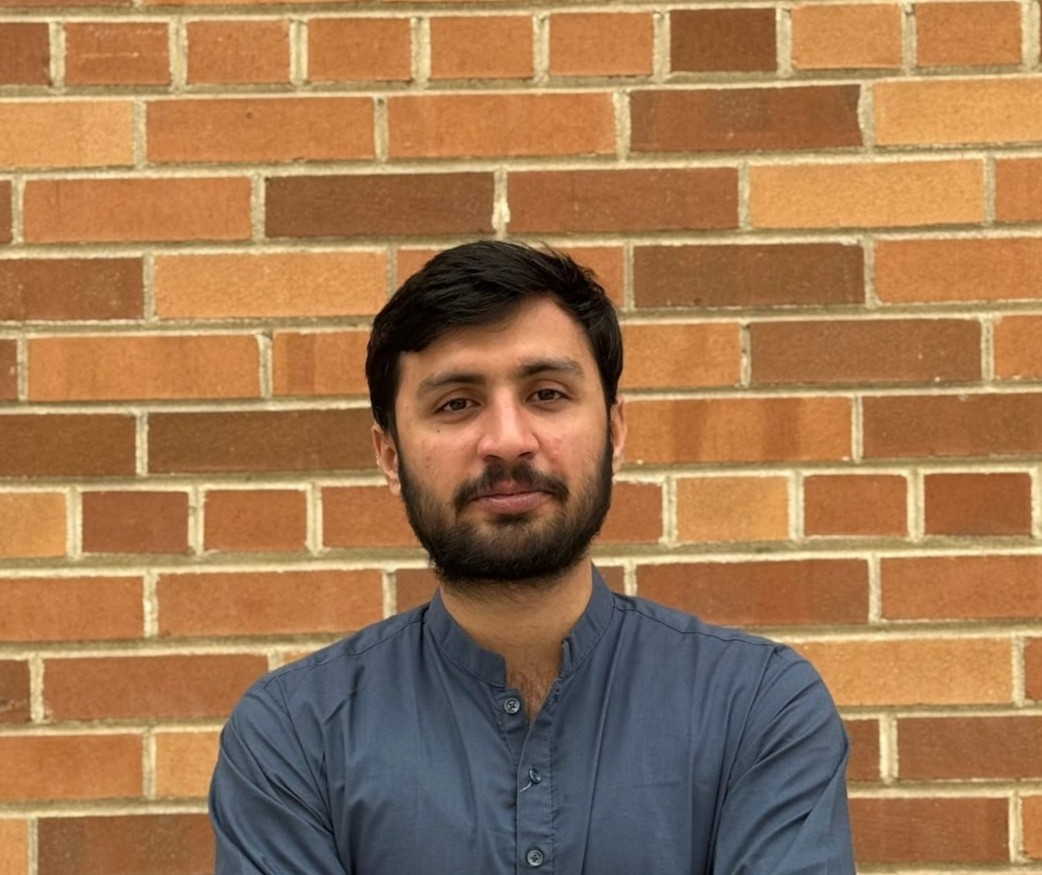
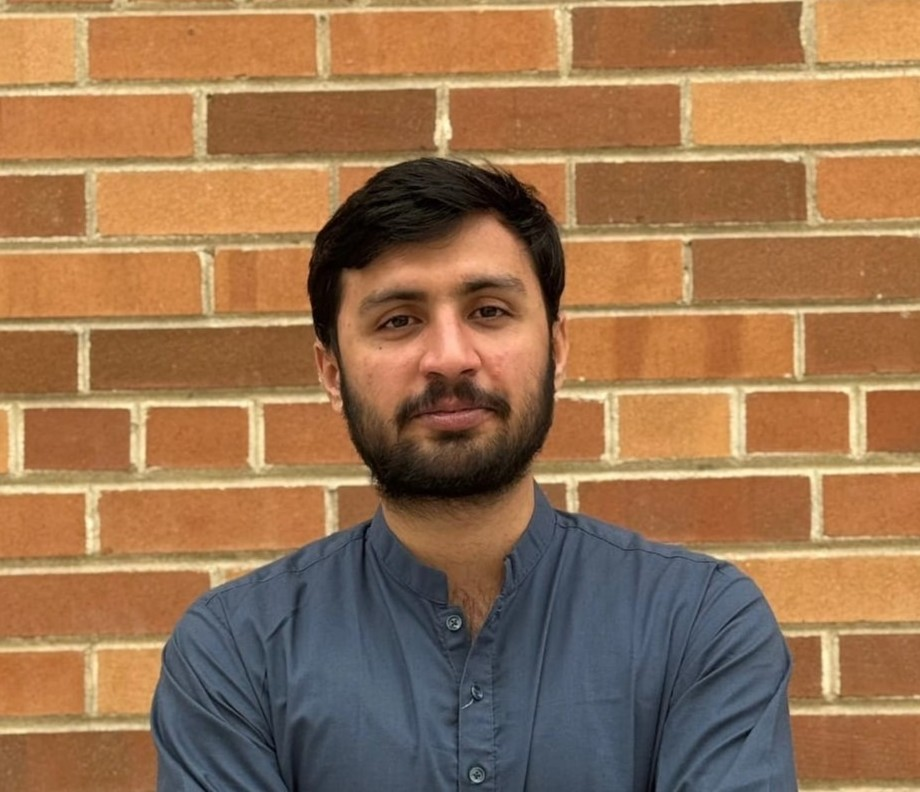
Changing UI

diff --git a/styles.css b/styles.css
@@ -305,13 +305,16 @@ h4 { font-size: 1rem; }
 
 .hero-layout {
   position: relative;
-  max-width: 820px;
+  display: grid;
+  grid-template-columns: minmax(0, 1fr) minmax(330px, 430px);
+  gap: 3.5rem;
+  align-items: center;
 }
 
 .hero-identity {
   display: flex;
   align-items: center;
-  gap: 1.35rem;
+  gap: 1.1rem;
   margin-bottom: .25rem;
 }
 
@@ -325,17 +328,106 @@ h4 { font-size: 1rem; }
 
 .hero-avatar {
   display: block;
-  width: 132px;
-  height: 132px;
+  width: 84px;
+  height: 84px;
   border-radius: 50%;
   object-fit: cover;
   object-position: center 12%;
-  border: 4px solid var(--bg);
+  border: 3px solid var(--bg);
   background: var(--surface-soft);
 }
 
-.hero-identity-text { min-width: 0; }
-.hero-identity-text .eyebrow { margin-bottom: .5rem; }
+.hero-identity-text { flex: 1; min-width: 0; }
+.hero-identity-text .eyebrow { margin-bottom: .5rem; overflow-wrap: anywhere; }
+
+/* role line */
+.hero-role {
+  margin-top: .85rem;
+  font-family: "JetBrains Mono", monospace;
+  font-size: clamp(.95rem, 1.6vw, 1.15rem);
+  font-weight: 600;
+  letter-spacing: -.01em;
+  color: var(--text-2);
+}
+.hero-role .accent {
+  background: var(--grad);
+  -webkit-background-clip: text;
+  -webkit-text-fill-color: transparent;
+  background-clip: text;
+}
+.hero-role::before {
+  content: "> ";
+  color: var(--primary);
+}
+
+/* ── Hero code panel ── */
+.hero-code {
+  position: relative;
+  border: 1px solid var(--line-strong);
+  border-radius: 16px;
+  background:
+    linear-gradient(180deg, color-mix(in srgb, var(--surface-2) 92%, var(--primary)) 0%, var(--surface) 100%);
+  box-shadow: var(--shadow-lg), 0 0 60px color-mix(in srgb, var(--primary) 14%, transparent);
+  overflow: hidden;
+  font-family: "JetBrains Mono", monospace;
+}
+
+.hero-code-bar {
+  display: flex;
+  align-items: center;
+  gap: .55rem;
+  padding: .7rem .95rem;
+  border-bottom: 1px solid var(--line);
+  background: color-mix(in srgb, var(--bg) 45%, transparent);
+}
+.hero-code-bar .dot {
+  width: 11px; height: 11px; border-radius: 50%;
+  background: var(--muted); opacity: .55;
+}
+.hero-code-bar .dot:nth-child(1) { background: #ff5f57; opacity: .9; }
+.hero-code-bar .dot:nth-child(2) { background: #febc2e; opacity: .9; }
+.hero-code-bar .dot:nth-child(3) { background: #28c840; opacity: .9; }
+.hero-code-bar .file {
+  margin-left: .4rem;
+  font-size: .74rem;
+  color: var(--muted);
+}
+
+.hero-code pre {
+  margin: 0;
+  padding: 1.15rem 1.25rem 1.35rem;
+  font-size: .8rem;
+  line-height: 1.85;
+  overflow-x: auto;
+  counter-reset: ln;
+}
+.hero-code .ln { display: block; white-space: pre; }
+.hero-code .ln::before {
+  counter-increment: ln;
+  content: counter(ln);
+  display: inline-block;
+  width: 1.4rem;
+  margin-right: 1rem;
+  text-align: right;
+  color: var(--muted);
+  opacity: .45;
+  -webkit-user-select: none;
+  user-select: none;
+}
+
+.tok-kw   { color: #c792ea; }
+.tok-key  { color: #82aaff; }
+.tok-str  { color: #c3e88d; }
+.tok-num  { color: #f78c6c; }
+.tok-fn   { color: #ffcb6b; }
+.tok-com  { color: var(--muted); opacity: .7; }
+.tok-pn   { color: var(--text-2); }
+
+[data-theme="light"] .tok-kw  { color: #9333ea; }
+[data-theme="light"] .tok-key { color: #2563eb; }
+[data-theme="light"] .tok-str { color: #15803d; }
+[data-theme="light"] .tok-num { color: #c2410c; }
+[data-theme="light"] .tok-fn  { color: #b45309; }
 
 .hero-content h1 {
   margin-bottom: 0;
@@ -757,14 +849,103 @@ h4 { font-size: 1rem; }
 }
 
 .project-list {
-  display: flex;
-  flex-direction: column;
-  gap: .6rem;
+  display: grid;
+  grid-template-columns: repeat(2, 1fr);
+  gap: 1rem;
 }
 
+.project-card {
+  position: relative;
+  display: flex;
+  flex-direction: column;
+  gap: .7rem;
+  background: var(--surface);
+  border: 1px solid var(--line);
+  border-radius: var(--radius);
+  padding: 1.4rem 1.5rem 1.5rem;
+  box-shadow: var(--shadow-sm);
+  overflow: hidden;
+  transition: box-shadow var(--t), transform var(--t), border-color var(--t);
+}
+.project-card::before {
+  content: "";
+  position: absolute;
+  inset: 0 0 auto 0;
+  height: 3px;
+  background: var(--cat-color, var(--primary));
+  opacity: 0;
+  transition: opacity var(--t);
+}
+.project-card:hover {
+  box-shadow: var(--shadow), 0 0 50px color-mix(in srgb, var(--cat-color, var(--primary)) 12%, transparent);
+  transform: translateY(-4px);
+  border-color: color-mix(in srgb, var(--cat-color, var(--primary)) 35%, var(--line-strong));
+}
+.project-card:hover::before { opacity: 1; }
+
+.project-card-top {
+  display: flex;
+  align-items: center;
+  gap: .55rem;
+}
+.project-card-top .project-index {
+  color: var(--cat-color, var(--primary));
+}
+.project-card-top .meta-pill.cat { margin-right: auto; }
+
+.project-card-title {
+  font-size: 1.02rem;
+  font-weight: 700;
+  line-height: 1.35;
+  color: var(--text);
+}
+
+.project-card-desc {
+  color: var(--text-2);
+  font-size: .88rem;
+  line-height: 1.6;
+  margin: 0;
+  display: -webkit-box;
+  -webkit-line-clamp: 4;
+  -webkit-box-orient: vertical;
+  overflow: hidden;
+}
+
+.project-card .tags { margin-top: auto; }
+
+.tag-more {
+  font-size: .72rem;
+  font-weight: 600;
+  padding: .25rem .55rem;
+  border-radius: 7px;
+  color: var(--muted);
+  font-family: "JetBrains Mono", monospace;
+}
+
+.project-card-links {
+  display: flex;
+  flex-wrap: wrap;
+  gap: 1rem;
+  margin-top: .35rem;
+  padding-top: .9rem;
+  border-top: 1px solid var(--line);
+}
+.project-card-links a {
+  display: inline-flex;
+  align-items: center;
+  gap: .35rem;
+  font-weight: 700;
+  font-size: .8rem;
+  color: var(--primary);
+  transition: gap var(--t), color var(--t);
+}
+.project-card-links a:hover { gap: .55rem; color: var(--accent); }
+.project-card-links svg { flex-shrink: 0; }
+
 .show-more-projects {
+  grid-column: 1 / -1;
   width: 100%;
-  margin-top: 1.1rem;
+  margin-top: .4rem;
   padding: 1.1rem 0;
   display: flex;
   align-items: center;
@@ -1051,14 +1232,13 @@ h4 { font-size: 1rem; }
   .skills-grid { grid-template-columns: repeat(2, 1fr); }
 }
 
-@media (max-width: 860px) {
-  .hero-identity {
-    flex-direction: column;
-    text-align: center;
-    gap: 1rem;
-  }
+@media (max-width: 880px) {
+  .hero-layout { grid-template-columns: minmax(0, 1fr); gap: 2.25rem; }
+  .hero-code { order: 2; max-width: 520px; min-width: 0; }
+}
 
-  .hero-avatar { width: 128px; height: 128px; }
+@media (max-width: 860px) {
+  .hero-avatar { width: 76px; height: 76px; }
 
   .contact-card {
     grid-template-columns: 1fr;
@@ -1094,8 +1274,12 @@ h4 { font-size: 1rem; }
 
 @media (max-width: 640px) {
   .container { width: calc(100% - 32px); }
+  .hero-identity { flex-direction: column; align-items: flex-start; gap: .9rem; }
+  .hero-identity-text { width: 100%; }
+  .hero-content h1 { font-size: clamp(2rem, 11vw, 2.6rem); }
   .skills-grid { grid-template-columns: 1fr; }
   .awards-list { grid-template-columns: 1fr; }
+  .project-list { grid-template-columns: 1fr; }
   .hero-actions, .contact-actions { flex-direction: column; }
   .btn { width: 100%; }
   .profile-links { flex-direction: column; }

diff --git a/script.js b/script.js
@@ -244,7 +244,10 @@ function createTags(tags) {
 
 let showingAllProjects = false;
 let currentProjectFilter = "all";
-const INITIAL_PROJECT_COUNT = 4;
+const INITIAL_PROJECT_COUNT = 6;
+const MAX_PROJECT_TAGS = 6;
+
+const githubIcon = `<svg width="15" height="15" viewBox="0 0 24 24" fill="currentColor" aria-hidden="true"><path d="M12 0C5.37 0 0 5.37 0 12c0 5.31 3.435 9.795 8.205 11.385.6.105.825-.255.825-.57 0-.285-.015-1.23-.015-2.235-3.015.555-3.795-.735-4.035-1.41-.135-.345-.72-1.41-1.23-1.695-.42-.225-1.02-.78-.015-.795.945-.015 1.62.87 1.845 1.23 1.08 1.815 2.805 1.305 3.495.99.105-.78.42-1.305.765-1.605-2.67-.3-5.46-1.335-5.46-5.925 0-1.305.465-2.385 1.23-3.225-.12-.3-.54-1.53.12-3.18 0 0 1.005-.315 3.3 1.23.96-.27 1.98-.405 3-.405s2.04.135 3 .405c2.295-1.56 3.3-1.23 3.3-1.23.66 1.65.24 2.88.12 3.18.765.84 1.23 1.905 1.23 3.225 0 4.605-2.805 5.625-5.475 5.925.435.375.81 1.095.81 2.22 0 1.605-.015 2.895-.015 3.3 0 .315.225.69.825.57A12.02 12.02 0 0 0 24 12c0-6.63-5.37-12-12-12z"/></svg>`;
 
 function renderProjects(filter = "all") {
   currentProjectFilter = filter;
@@ -255,30 +258,27 @@ function renderProjects(filter = "all") {
   const remainingCount = Math.max(filtered.length - INITIAL_PROJECT_COUNT, 0);
 
   list.innerHTML = `
-    ${visibleProjects.map((project, i) => `
-      <details class="project-item ${categoryClass[project.category] || ""}">
-        <summary class="project-summary">
+    ${visibleProjects.map((project, i) => {
+      const extra = project.tech.length - MAX_PROJECT_TAGS;
+      const tagsHTML = createTags(project.tech.slice(0, MAX_PROJECT_TAGS)) +
+        (extra > 0 ? `<span class="tag-more">+${extra}</span>` : "");
+      return `
+      <article class="project-card ${categoryClass[project.category] || ""}">
+        <div class="project-card-top">
           <span class="project-index">${String(i + 1).padStart(2, "0")}</span>
-          <span class="project-name">${project.title}</span>
-          ${project.featured ? `<span class="meta-pill featured-pill">Featured</span>` : ""}
-          <span class="project-chevron" aria-hidden="true">
-            <svg width="16" height="16" viewBox="0 0 24 24" fill="none" stroke="currentColor" stroke-width="2.5" stroke-linecap="round" stroke-linejoin="round"><polyline points="6 9 12 15 18 9"/></svg>
-          </span>
-        </summary>
-        <div class="project-details">
-          <div class="project-meta">
-            <span class="meta-pill cat">${project.category}</span>
-            <span class="meta-pill">${project.date}</span>
-          </div>
-          <p>${project.description}</p>
-          <div class="tags">${createTags(project.tech)}</div>
-          <div class="project-links">
-            ${project.github ? `<a href="${project.github}" target="_blank" rel="noreferrer">GitHub</a>` : ""}
-            ${project.report ? `<a href="${project.report}" target="_blank" rel="noreferrer">Report</a>` : ""}
-          </div>
+          <span class="meta-pill cat">${project.category}</span>
+          ${project.featured ? `<span class="meta-pill featured-pill">★ Featured</span>` : ""}
         </div>
-      </details>
-    `).join("")}
+        <h3 class="project-card-title">${project.title}</h3>
+        <p class="project-card-desc">${project.description}</p>
+        <div class="tags">${tagsHTML}</div>
+        ${(project.github || project.report) ? `
+        <div class="project-card-links">
+          ${project.github ? `<a href="${project.github}" target="_blank" rel="noreferrer">${githubIcon} Code</a>` : ""}
+          ${project.report ? `<a href="${project.report}" target="_blank" rel="noreferrer">Report →</a>` : ""}
+        </div>` : ""}
+      </article>`;
+    }).join("")}
 
     ${filtered.length > INITIAL_PROJECT_COUNT ? `
       <button class="show-more-projects" type="button" id="show-more-projects">
@@ -396,7 +396,7 @@ function setupTheme() {
 function setupReveal() {
   const targets = document.querySelectorAll(
     ".section-heading, .hero-content > *, .experience-card, .publication-card, " +
-    ".project-item, .skill-card, .award-card, .contact-card"
+    ".project-card, .skill-card, .award-card, .contact-card"
   );
 
   if (!("IntersectionObserver" in window)) {

diff --git a/index.html b/index.html
@@ -74,14 +74,8 @@
               <h1>Muhammad Ibrahim</h1>
             </div>
           </div>
-          <p class="hero-subtitle">Wireless communication, machine learning, UAV systems, and simulation-based research.</p>
+          <p class="hero-role">ML &amp; Wireless Systems <span class="accent">Researcher</span></p>
           <p class="hero-text">Working at the intersection of 5G/6G wireless systems, intelligent surfaces, reinforcement learning, UAV autonomy, embedded systems, and edge AI.</p>
-
-          <div class="hero-stats">
-            <div class="stat"><strong>4</strong><span>Publications</span></div>
-            <div class="stat"><strong>20+</strong><span>Projects</span></div>
-            <div class="stat"><strong>4</strong><span>Roles</span></div>
-          </div>
 
           <div class="hero-actions">
             <a class="btn primary" href="#projects">View Projects</a>
@@ -102,7 +96,21 @@
               Google Scholar
             </a>
           </div>
+
+          <div class="hero-stats">
+            <div class="stat"><strong>4</strong><span>Publications</span></div>
+            <div class="stat"><strong>20+</strong><span>Projects</span></div>
+            <div class="stat"><strong>4</strong><span>Roles</span></div>
+          </div>
         </div>
+
+        <aside class="hero-code" aria-hidden="true">
+          <div class="hero-code-bar">
+            <span class="dot"></span><span class="dot"></span><span class="dot"></span>
+            <span class="file">researcher.py</span>
+          </div>
+          <pre><code><span class="ln"><span class="tok-kw">class</span> <span class="tok-fn">Researcher</span><span class="tok-pn">:</span></span><span class="ln">    name <span class="tok-pn">=</span> <span class="tok-str">"Muhammad Ibrahim"</span></span><span class="ln">    role <span class="tok-pn">=</span> <span class="tok-str">"M.Sc. ECE @ UManitoba"</span></span><span class="ln">    base <span class="tok-pn">=</span> <span class="tok-str">"Winnipeg, Canada"</span></span><span class="ln"></span><span class="ln">    focus <span class="tok-pn">=</span> <span class="tok-pn">[</span></span><span class="ln">        <span class="tok-str">"5G/6G wireless"</span><span class="tok-pn">,</span></span><span class="ln">        <span class="tok-str">"reinforcement learning"</span><span class="tok-pn">,</span></span><span class="ln">        <span class="tok-str">"UAV autonomy"</span><span class="tok-pn">,</span></span><span class="ln">    <span class="tok-pn">]</span></span><span class="ln">    stack <span class="tok-pn">=</span> <span class="tok-pn">[</span><span class="tok-str">"Python"</span><span class="tok-pn">,</span> <span class="tok-str">"PyTorch"</span><span class="tok-pn">,</span> <span class="tok-str">"ROS"</span><span class="tok-pn">]</span></span><span class="ln">    publications <span class="tok-pn">=</span> <span class="tok-num">4</span></span><span class="ln"></span><span class="ln">    <span class="tok-kw">def</span> <span class="tok-fn">status</span><span class="tok-pn">(</span>self<span class="tok-pn">):</span></span><span class="ln">        <span class="tok-kw">return</span> <span class="tok-str">"open to collaboration"</span></span><span class="ln"><span class="tok-com"># &gt;&gt;&gt; building intelligent systems</span></span></code></pre>
+        </aside>
 
       </div>
     </section>